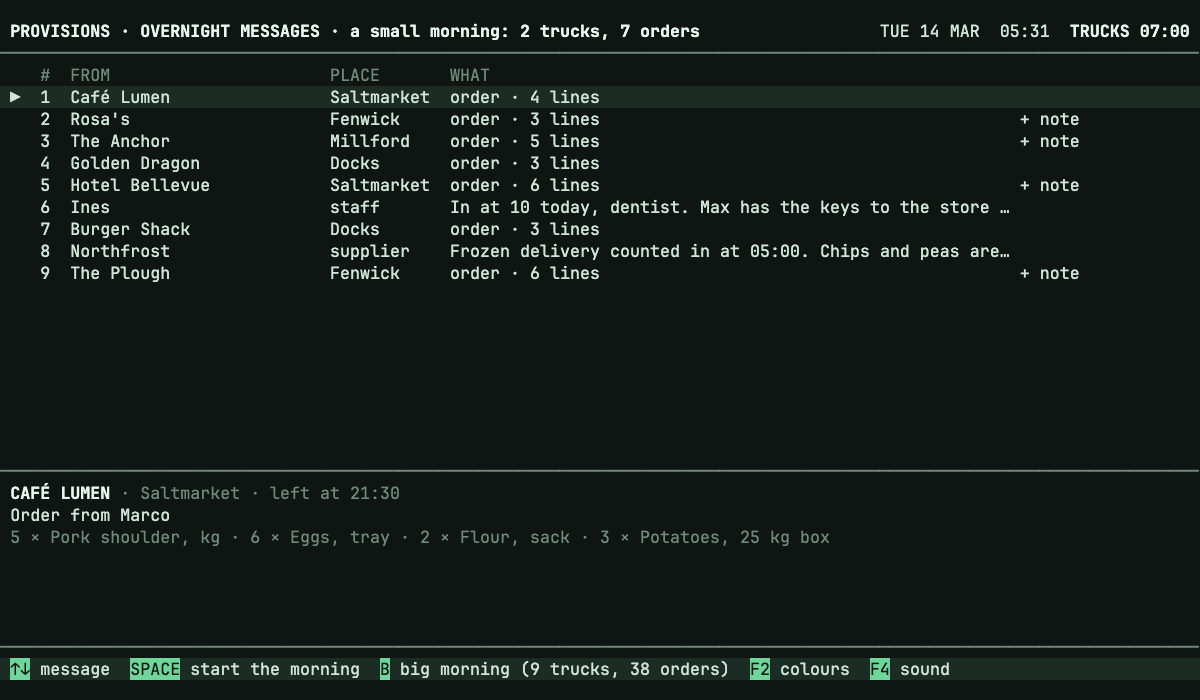
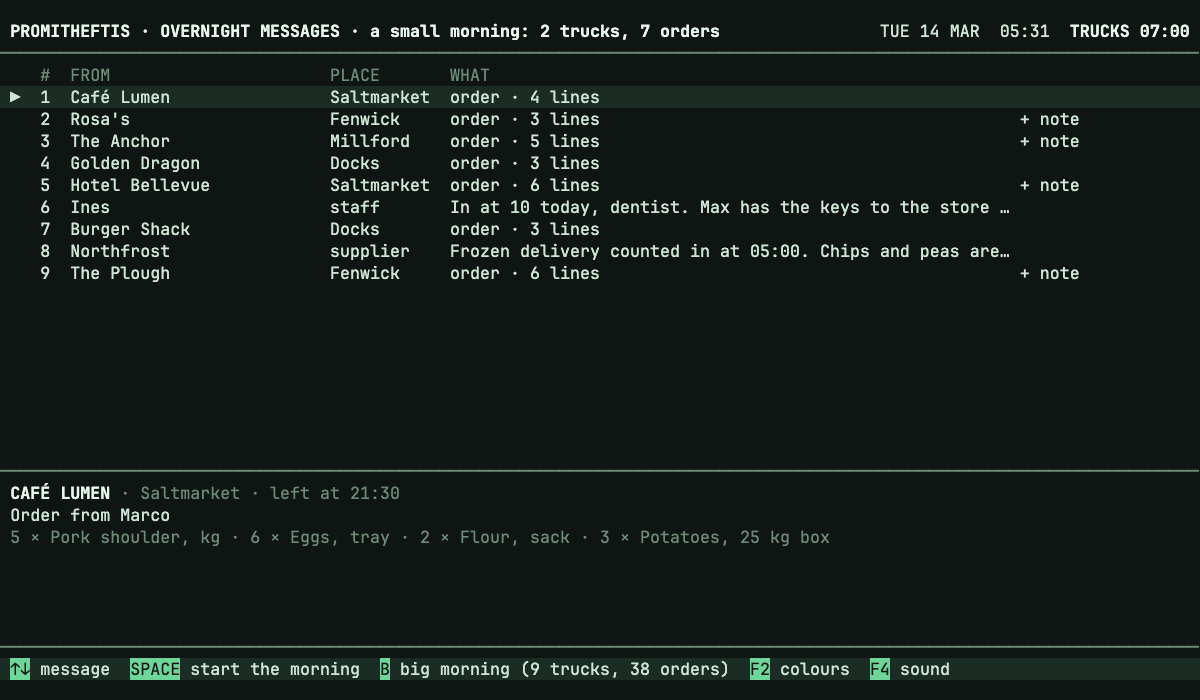
fix: show Promitheftis in every header and keep the absent store-room staff off the roster (#8)
* fix: show Promitheftis in every header and keep the absent store-room staff off the roster

* no-mistakes(document): No documentation or lint changes needed

Changed region(s): [[0.0308, 0.03, 0.6167, 0.06]]

diff --git a/tests/app.test.ts b/tests/app.test.ts
@@ -418,6 +418,23 @@ describe('a whole small morning', () => {
     return t;
   }
 
+  it('shows the game name in the header of every screen', () => {
+    const { app, press } = play();
+    const header = () => expectFullScreen(app)[0];
+    press('F10');
+    expect(app.screen).toBe('sheets');
+    expect(header()).toContain(' PROMITHEFTIS · ');
+    press('F9');
+    expect(app.screen).toBe('result');
+    expect(header()).toContain(' PROMITHEFTIS · ');
+    press('r');
+    expect(app.screen).toBe('messages');
+    expect(header()).toContain(' PROMITHEFTIS · ');
+    press(' ');
+    expect(app.screen).toBe('desk');
+    expect(header()).toContain(' PROMITHEFTIS · ');
+  });
+
   it('finishes every order and says so', () => {
     const { app } = play();
     expect(app.desk.unfinishedCount()).toBe(0);

diff --git a/tests/morning.test.ts b/tests/morning.test.ts
@@ -14,6 +14,15 @@ describe.each([
 ])('the %s morning', (_name, load) => {
   const m = load();
 
+  it('does not list anyone as working in the store room who is away in the overnight notes', () => {
+    const away = m.messages.flatMap((msg) => (msg.kind === 'staff' && /dentist/.test(msg.text) ? [msg.from] : []));
+    expect(away).toEqual(['Ines']);
+    for (const name of away) {
+      expect(m.storeRoom).not.toContain(name);
+      expect(m.crews.flatMap((c) => c.names)).not.toContain(name);
+    }
+  });
+
   it('only asks for items in the catalogue, once per order, in amounts above zero', () => {
     const ids = new Set(m.items.map((i) => i.id));
     for (const o of m.orders) {

diff --git a/src/ui/grid.ts b/src/ui/grid.ts
@@ -104,7 +104,7 @@ export function bar(pct: number, cells: number, extra = ''): Line {
 
 /** Header line and rule: title on the left, date and clock on the right. */
 export function header(title: string, right: Line): Line[] {
-  return [spread(s(' PROVISIONS · ' + title, 'b'), right), rule()];
+  return [spread(s(' PROMITHEFTIS · ' + title, 'b'), right), rule()];
 }
 
 /** The key-hint bar along the bottom of every screen. */

diff --git a/src/game/morning.ts b/src/game/morning.ts
@@ -219,7 +219,7 @@ export function smallMorning(): Morning {
     orders,
     messages: buildMessages(orders, 2),
     crews,
-    storeRoom: ['Ines'],
+    storeRoom: ['Max'],
   };
 }
 
@@ -247,7 +247,7 @@ export function bigMorning(): Morning {
     orders,
     messages: buildMessages(orders, SUPPLIER_STAFF_NOTES.length),
     crews,
-    storeRoom: ['Ines', 'Max'],
+    storeRoom: ['Max'],
   };
 }
 

diff --git a/index.html b/index.html
@@ -3,10 +3,10 @@
   <head>
     <meta charset="utf-8" />
     <meta name="viewport" content="width=device-width, initial-scale=1" />
-    <title>Provisions</title>
+    <title>Promitheftis</title>
   </head>
   <body>
-    <pre id="screen" aria-label="Provisions"></pre>
+    <pre id="screen" aria-label="Promitheftis"></pre>
     <script type="module" src="/src/main.ts"></script>
   </body>
 </html>
